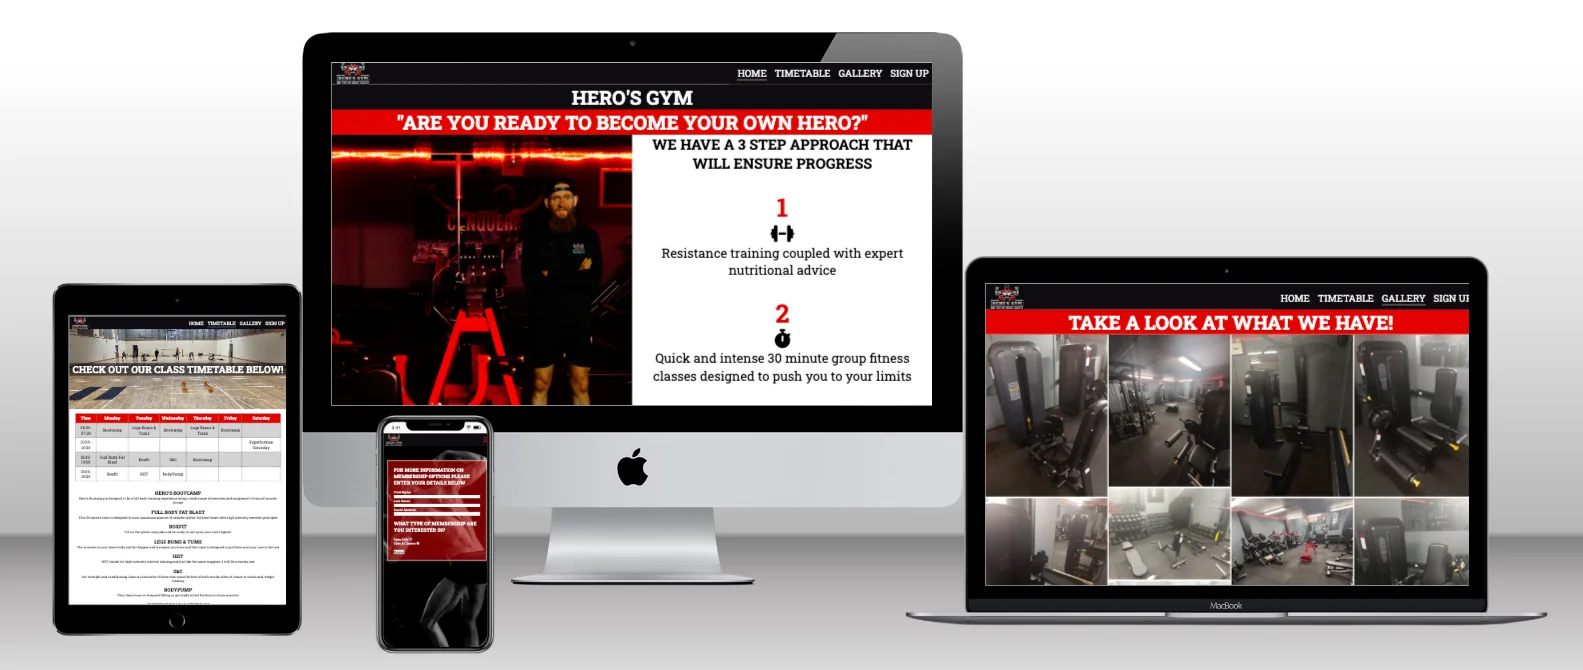
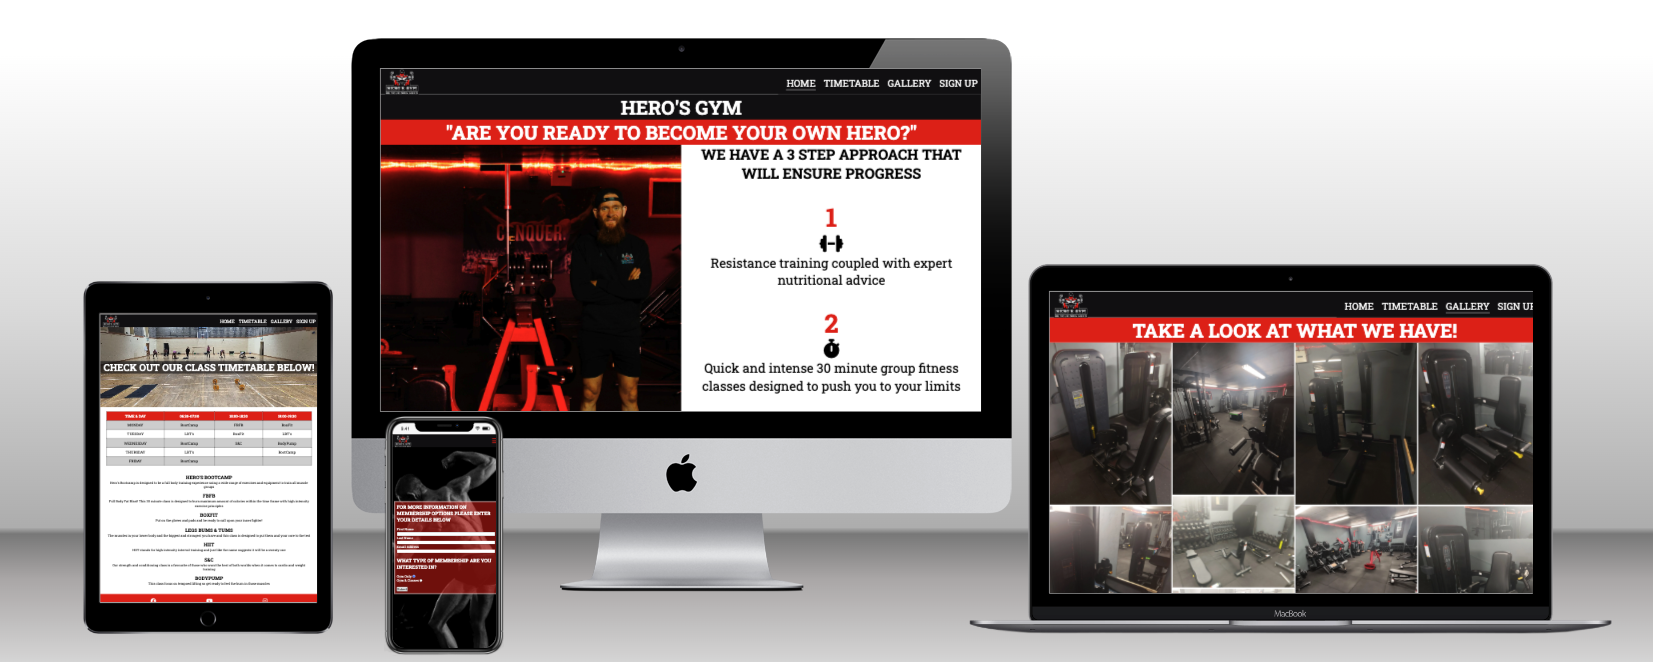
Main: Updated readme file with changes to table on timetable page

diff --git a/README.md b/README.md
@@ -44,7 +44,7 @@ Using this website you will be able to find all relevant information about the g
 - When viewing this page on a mobile screen the table is set to side scroll so it does not distort the layout of the page.
 - Below the timetable is a detailed description of all the classes which allows the user of the website to get an idea of how the class is taught.
 
-![Timetable](assets/images/timetable.webp)
+![Timetable](assets/images/timetableN.webp)
 
 ### Gallery Page
 
@@ -96,7 +96,6 @@ Using this website you will be able to find all relevant information about the g
 - All pages were tested on various screen sizes from Galaxy Fold 280px upwards and all pages are responsive and function as intended.
 - To test this the webpage was loaded in a browser and using Google Dev Tools each page was opened and was changed to 280px and then the responsive window was dragged to max size.
 - All pages responded as intended and no images were stretched or pixelated.
-- The timetable was given CSS code overflow to allow for side scrolling on mobile phones screen sizes as reducing font size to fit made the content unreadable.
 - Some devices the website was tested on outside of Dev Tools were: Iphone 11, Samsung A6, Macbook Air, HP M27fw FHD monitor.
 
 ### Accessibility
